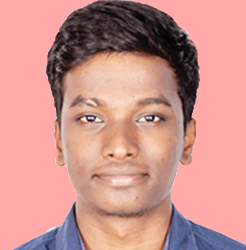
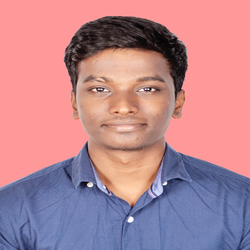
Updating my photo
Displays images with correct aspect ratio

diff --git a/index.html b/index.html
@@ -116,7 +116,7 @@
     
     <!-- Intro image of mine in Home -->
       <div class="text-center">
-        <img class="rounded-circle rounded mx-auto d-block scale-up-center img-container" alt="Abinesh Image" src="images/ab.png" data-holder-rendered="true" width="250px" height="250px">        
+        <img class="rounded-circle rounded mx-auto d-block scale-up-center img-container" alt="Abinesh Image" src="images/me.png" data-holder-rendered="true" width="250px" height="250px">        
       </div>
 
   </header>
